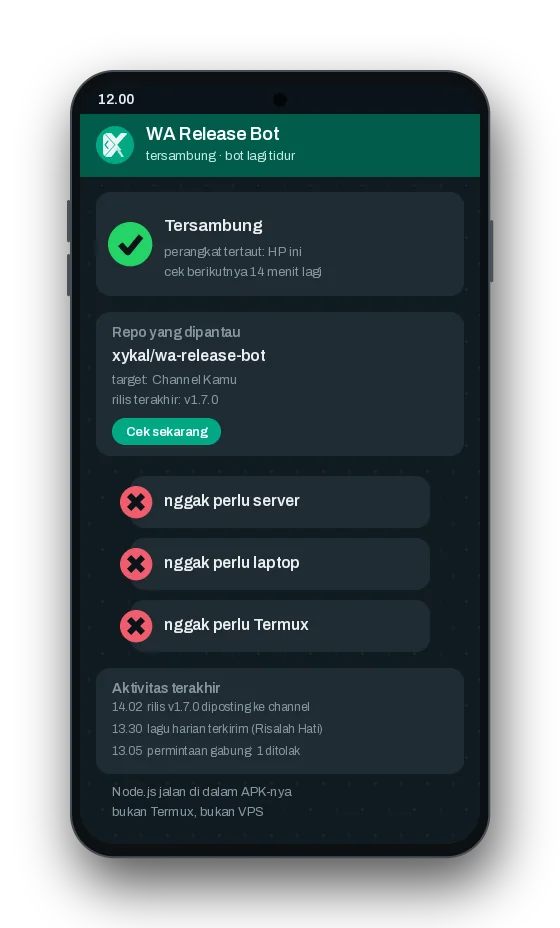
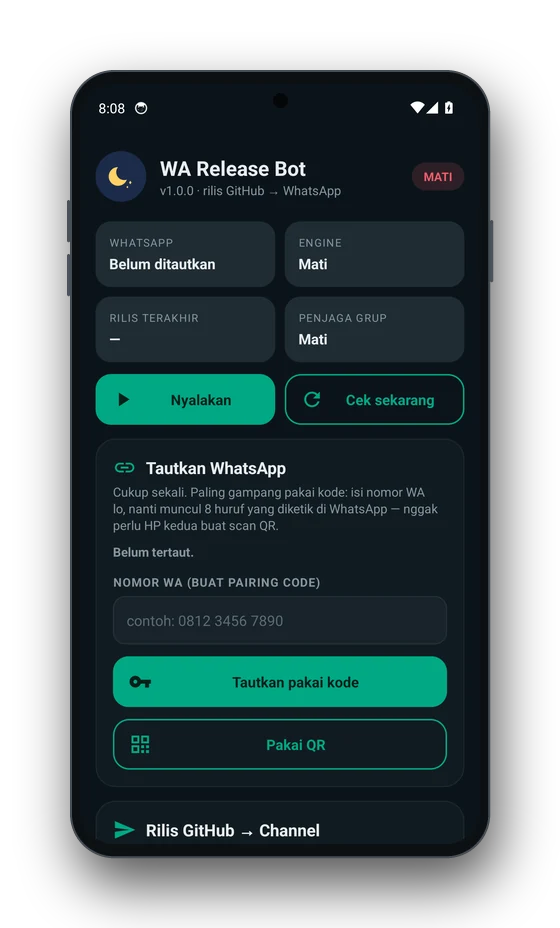
feat(web): screenshot app asli dari emulator di GitHub Actions untuk galeri situs (#15)
Workflow screenshot-app.yml: build APK release x86_64 (versi 1.0.0), jalankan di emulator Android 14, isi prefs contoh lewat adb root, tangkap tiap layar dengan anchor uiautomator. Galeri situs memakai enam tangkapan asli; sisi WhatsApp tetap ilustrasi berlabel. README/CHANGELOG/PROGRESS ikut.

Changed region(s): [[0.1214, 0.0938, 0.8804, 0.9062], [0.7893, 0.7812, 0.8196, 0.8125]]

diff --git a/web/js/teks.js b/web/js/teks.js
@@ -34,8 +34,10 @@ const TEKS = {
     cara4_j: 'Cloudflare Worker + AI', cara4_i: 'Caption lagu dibikin di Worker (model Groq) dengan batas harian per perangkat. Token AI nggak pernah ada di HP.',
     siklus_judul: 'Satu siklus, 15 menit',
     siklus1: 'Bangun', siklus2: 'Cek rilis GitHub', siklus3: 'Cek permintaan gabung', siklus4: 'Kirim lagu harian (kalau jadwalnya)', siklus5: 'Tidur lagi',
-    galeri_judul: 'Tampilannya', galeri_sub: 'Ilustrasi dari layar app, bukan tangkapan layar dari HP orang.',
-    g_beranda: 'Beranda', g_rilis: 'Post rilis', g_grup: 'Penjaga grup', g_lagu: 'Lagu mood', g_caption: 'Caption AI', g_lapor: 'Status bot',
+    galeri_judul: 'Tampilannya',
+    galeri_sub: 'Tangkapan layar app versi 1.0.0 di emulator Android 14, dibuat otomatis oleh GitHub Actions. Dua gambar bertanda ilustrasi menggambarkan sisi WhatsApp.',
+    g_sambutan: 'Layar sambutan', g_beranda: 'Beranda', g_pengaturan: 'Repo dan channel', g_grup: 'Penjaga grup',
+    g_lagu: 'Lagu mood', g_log: 'Log bot', g_rilis: 'Post rilis di WhatsApp (ilustrasi)', g_caption: 'Lagu mood di WhatsApp (ilustrasi)',
     aman_judul: 'Privasi dan keamanan', aman_sub: 'Botnya di HP kamu, datanya juga.',
     aman1_j: 'Nggak ada server tengah', aman1_i: 'HP kamu ngobrol langsung ke GitHub dan WhatsApp. Nggak ada akun, nggak ada dashboard, nggak ada pihak ketiga yang lihat pesan.',
     aman2_j: 'Token tetap di HP', aman2_i: 'Token GitHub (opsional, buat repo privat) dan sesi WA disimpan di penyimpanan privat app.',
@@ -85,8 +87,10 @@ const TEKS = {
     cara4_j: 'Cloudflare Worker + AI', cara4_i: 'Song captions are generated in a Worker (Groq models) with a daily per-device limit. The AI key never touches the phone.',
     siklus_judul: 'One cycle, 15 minutes',
     siklus1: 'Wake up', siklus2: 'Check GitHub releases', siklus3: 'Check join requests', siklus4: 'Send the daily song (when scheduled)', siklus5: 'Back to sleep',
-    galeri_judul: 'What it looks like', galeri_sub: 'Illustrations of the app screens, not screenshots from someone else\u2019s phone.',
-    g_beranda: 'Home', g_rilis: 'Release post', g_grup: 'Gatekeeper', g_lagu: 'Mood song', g_caption: 'AI caption', g_lapor: 'Bot status',
+    galeri_judul: 'What it looks like',
+    galeri_sub: 'Screenshots of app version 1.0.0 on an Android 14 emulator, captured automatically by GitHub Actions. The two images marked as illustrations depict the WhatsApp side.',
+    g_sambutan: 'Welcome screen', g_beranda: 'Home', g_pengaturan: 'Repos and channel', g_grup: 'Gatekeeper',
+    g_lagu: 'Mood song', g_log: 'Bot log', g_rilis: 'Release post in WhatsApp (illustration)', g_caption: 'Mood song in WhatsApp (illustration)',
     aman_judul: 'Privacy and security', aman_sub: 'The bot lives on your phone, and so does its data.',
     aman1_j: 'No middle server', aman1_i: 'Your phone talks directly to GitHub and WhatsApp. No account, no dashboard, no third party reading messages.',
     aman2_j: 'Tokens stay on the phone', aman2_i: 'The GitHub token (optional, for private repos) and the WA session live in the app\u2019s private storage.',

diff --git a/web/index.html b/web/index.html
@@ -100,14 +100,16 @@
 
   <section class="bagian" id="galeri">
     <h2 data-i18n="galeri_judul">Tampilannya</h2>
-    <p class="sub" data-i18n="galeri_sub">Ilustrasi dari layar app, bukan tangkapan layar dari HP orang.</p>
+    <p class="sub" data-i18n="galeri_sub">Tangkapan layar app versi 1.0.0 di emulator Android 14, dibuat otomatis oleh GitHub Actions. Dua gambar bertanda ilustrasi menggambarkan sisi WhatsApp.</p>
     <div class="galeri">
+      <figure><img class="hp" src="/img/hp-sambutan.webp" alt="" width="560" height="928" loading="lazy"><figcaption data-i18n="g_sambutan">Layar sambutan</figcaption></figure>
       <figure><img class="hp" src="/img/hp-beranda.webp" alt="" width="560" height="928" loading="lazy"><figcaption data-i18n="g_beranda">Beranda</figcaption></figure>
-      <figure><img class="hp" src="/img/hp-rilis.webp" alt="" width="560" height="928" loading="lazy"><figcaption data-i18n="g_rilis">Post rilis</figcaption></figure>
+      <figure><img class="hp" src="/img/hp-pengaturan.webp" alt="" width="560" height="928" loading="lazy"><figcaption data-i18n="g_pengaturan">Repo dan channel</figcaption></figure>
       <figure><img class="hp" src="/img/hp-grup.webp" alt="" width="560" height="928" loading="lazy"><figcaption data-i18n="g_grup">Penjaga grup</figcaption></figure>
       <figure><img class="hp" src="/img/hp-lagu.webp" alt="" width="560" height="928" loading="lazy"><figcaption data-i18n="g_lagu">Lagu mood</figcaption></figure>
-      <figure><img class="hp" src="/img/hp-caption.webp" alt="" width="560" height="928" loading="lazy"><figcaption data-i18n="g_caption">Caption AI</figcaption></figure>
-      <figure><img class="hp" src="/img/hp-lapor.webp" alt="" width="560" height="928" loading="lazy"><figcaption data-i18n="g_lapor">Status bot</figcaption></figure>
+      <figure><img class="hp" src="/img/hp-log.webp" alt="" width="560" height="928" loading="lazy"><figcaption data-i18n="g_log">Log bot</figcaption></figure>
+      <figure><img class="hp" src="/img/hp-rilis.webp" alt="" width="560" height="928" loading="lazy"><figcaption data-i18n="g_rilis">Post rilis di WhatsApp (ilustrasi)</figcaption></figure>
+      <figure><img class="hp" src="/img/hp-caption.webp" alt="" width="560" height="928" loading="lazy"><figcaption data-i18n="g_caption">Lagu mood di WhatsApp (ilustrasi)</figcaption></figure>
     </div>
   </section>
 

diff --git a/scripts-dev/bingkai_screenshot.py b/scripts-dev/bingkai_screenshot.py
@@ -7,7 +7,10 @@ WebP transparan siap taruh di web/img/hp-<nama>.webp.
 
 Nama file sumber = nama layar: beranda, rilis, grup, lagu, kerja, stack, caption, lapor
 (.png/.jpg). Resolusi bebas (1080x2400, 1080x2340, 720x1600, ...): diskalakan ke lebar
-layar 400 px, tinggi mengikuti rasio HP (maks 900 px, sisanya dipotong rata atas-bawah).
+layar 400 px lalu dipotong ke tinggi 760 px supaya semua bingkai di web sama besar
+(560x928, sama dengan ilustrasi lama). Potongan menyisakan bagian atas (status bar +
+judul kartu); khusus layar sambutan bagian bawah yang disisakan karena teks dan
+tombolnya di bawah.
 Bingkai: rim tipis, bezel gelap, sudut 44/34 px, kamera punch-hole, bayangan lembut
 (angka sama dengan render/render.py di repo konten supaya gaya di web tetap satu).
 
@@ -22,7 +25,10 @@ from PIL import Image, ImageDraw, ImageFilter
 SW = 400            # lebar isi layar
 TEPI, ATAS, PAD = 10, 14, 70
 RIM, BEZEL = (70, 78, 86, 255), (12, 16, 20, 255)
-LAYAR = ["beranda", "rilis", "grup", "lagu", "kerja", "stack", "caption", "lapor"]
+SH = 760            # tinggi isi layar (rasio 400:760 = bingkai 560x928)
+LAYAR = ["sambutan", "beranda", "pengaturan", "grup", "lagu", "log", "hosting", "tentang",
+         "rilis", "kerja", "stack", "caption", "lapor"]
+POTONG_BAWAH = {"sambutan"}  # sisakan bagian bawah, bukan atas
 
 
 def bingkai(sh: int) -> Image.Image:
@@ -47,11 +53,15 @@ def bingkai(sh: int) -> Image.Image:
 
 def pasang(sumber: Path) -> Image.Image:
     im = Image.open(sumber).convert("RGB")
-    sh = min(900, round(im.height * SW / im.width))
+    sh = SH
     im = im.resize((SW, round(im.height * SW / im.width)), Image.LANCZOS)
-    if im.height > sh:  # terlalu panjang: potong rata atas-bawah
-        atas = (im.height - sh) // 2
+    if im.height > sh:
+        atas = im.height - sh if sumber.stem in POTONG_BAWAH else 0
         im = im.crop((0, atas, SW, atas + sh))
+    elif im.height < sh:  # HP lebih lebar dari 9:17: tempel di tengah latar gelap
+        latar = Image.new("RGB", (SW, sh), (11, 20, 26))
+        latar.paste(im, (0, (sh - im.height) // 2))
+        im = latar
     S = 4
     mask = Image.new("L", (SW * S, sh * S), 0)
     ImageDraw.Draw(mask).rounded_rectangle((0, 0, SW * S - 1, sh * S - 1), radius=34 * S, fill=255)

diff --git a/PROGRESS.md b/PROGRESS.md
@@ -66,3 +66,8 @@ Next:
   HP kecil dan 1024 px, modal terpotong di landscape, nav 320 px) -> diperbaiki + job CI `tangkapan`;
   emoji dihapus dari 11 dokumen + cek CI; `bingkai_screenshot.py` siap terima screenshot asli.
   Stars: API GitHub bilang 0 stargazer di wa-release-bot (XyDownloader dan AppPerms masing-masing 1).
+- kall: "selesaikan semua trus merge". PR #14 (web) di-merge. Dikerjakan hari yang sama: PR #16
+  layar Repo + channel per repo (engine, CLI, app, tes) di-merge; PR #17 README 580 -> 271 baris
+  (detail ke docs/PANDUAN-APP, BUILD, TROUBLESHOOTING) di-merge; PR #15 screenshot emulator di
+  Actions (3 kali gagal: grep+pipefail, layar sambutan, run-as di build release -> adb root) lalu
+  galeri situs memakai tangkapan asli. Belum: PR launching 1.0.0 (draft), M10, M9, Eps 2 logo.

diff --git a/CHANGELOG.md b/CHANGELOG.md
@@ -7,6 +7,10 @@ Semua perubahan penting proyek ini. Format mengikuti
 ## [Unreleased]
 
 ### Ditambah
+- **Screenshot app otomatis**: workflow `screenshot-app.yml` membangun APK release x86_64,
+  menjalankannya di emulator Android 14 (GitHub Actions) dan menangkap tiap layar
+  (`scripts-dev/screenshot_emulator.sh`); hasilnya dibingkai `scripts-dev/bingkai_screenshot.py`
+  dan dipakai galeri situs (tangkapan asli, bukan ilustrasi; sisi WhatsApp tetap ilustrasi).
 - **Layar Repo** di app: daftar repo yang dipantau (tambah/hapus, ganti channel) dengan
   channel WA khusus per repo; kartu depan cuma menampilkan ringkasan + tombol **Kelola repo**.
   Format simpanan tetap satu string `owner/a|link-channel, owner/b` sehingga engine dan CLI
